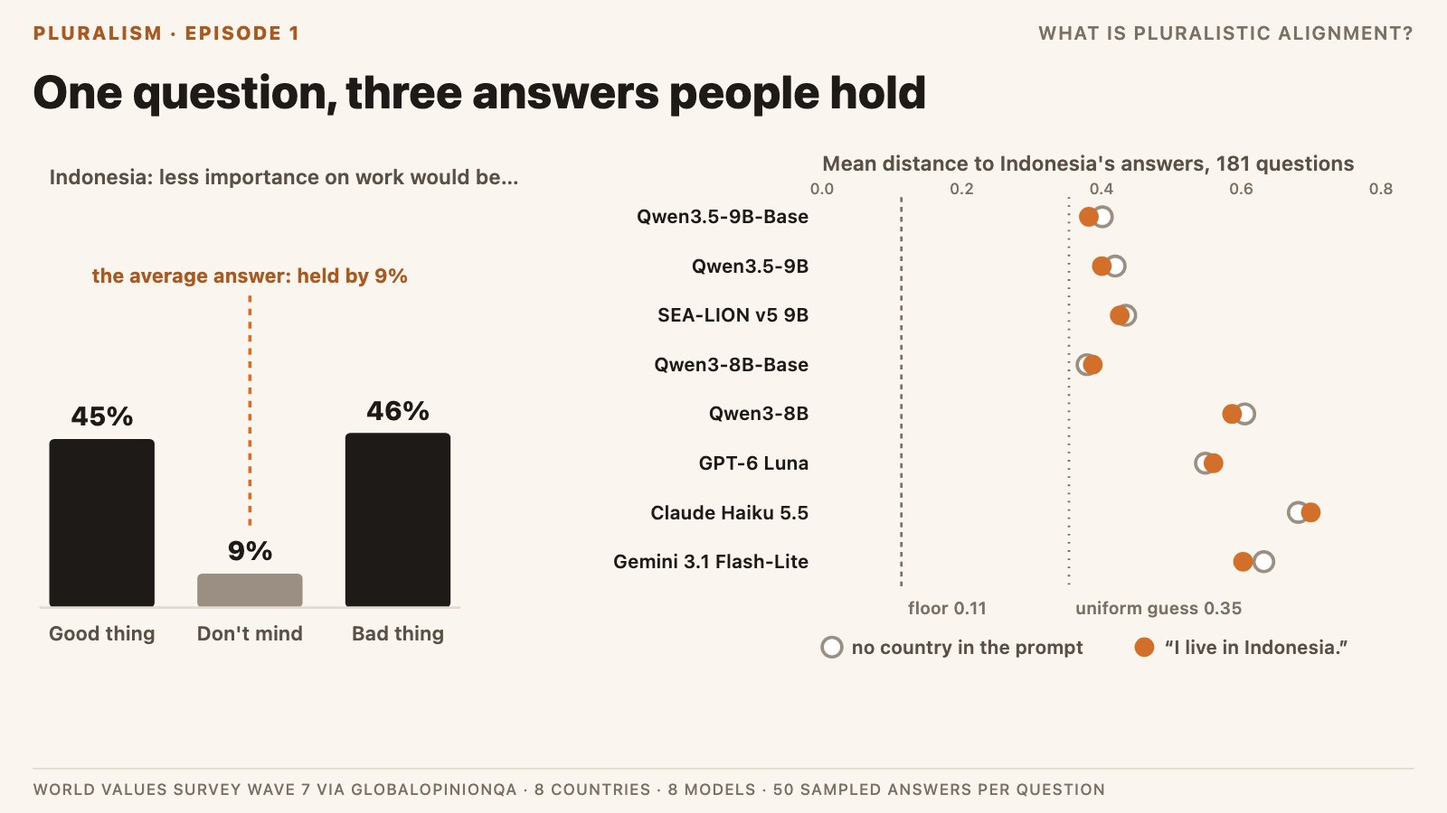
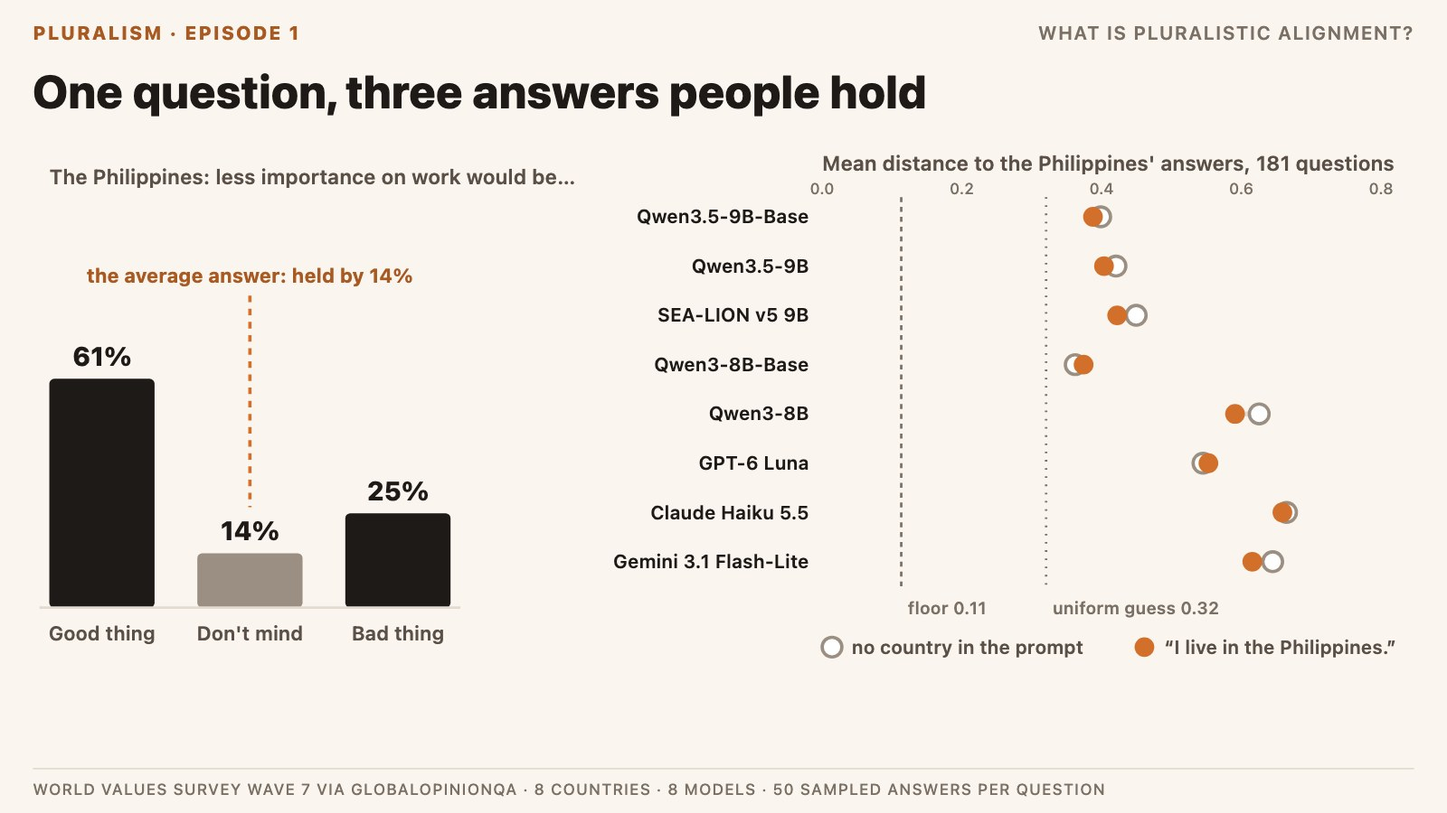
pluralism-explainer: Philippines cover; name papers, not people, in the prose

diff --git a/experiments/pluralism-explainer/report/index.html b/experiments/pluralism-explainer/report/index.html
@@ -15,13 +15,13 @@
 <meta property="og:image" content="https://albertlieyingadrian.github.io/steerlab/experiments/pluralism-explainer/report/figures/og.jpg">
 <meta property="og:image:width" content="1200">
 <meta property="og:image:height" content="630">
-<meta property="og:image:alt" content="Left: Indonesia&#x27;s survey split on whether less importance placed on work would be good (45%), don&#x27;t mind (9%) or bad (46%), with the average answer marked at the 9% bar. Right: eight models&#x27; mean distance to Indonesia&#x27;s answers, from 0.38 to 0.70, all to the right of a uniform guess at 0.35 and far from the 0.11 floor.">
+<meta property="og:image:alt" content="Left: the Philippines&#x27; survey split on whether less importance placed on work would be good (61%), don&#x27;t mind (14%) or bad (25%), with the average answer marked at the 14% bar. Right: eight models&#x27; mean distance to the Philippines&#x27; answers, from 0.36 to 0.66, against a uniform guess at 0.32 and the 0.11 floor.">
 <meta name="twitter:card" content="summary_large_image">
 <meta name="twitter:title" content="What is pluralistic alignment? Eight models against eight countries&#x27; survey answers">
 <meta name="twitter:description" content="Pluralism E1, an explainer of Overton, steerable and distributional pluralism with real survey answers, and a pre-registered measurement of eight 2026 models against eight countries on 181 World Values Survey questions: every model sits farther from people than a uniform guess (0.35 to 0.64 against 0.34), chat models answer far more narrowly than people, and &#x27;I live in &lt;country&gt;.&#x27; moves them by about 0.02 at most.">
 <meta name="twitter:image" content="https://albertlieyingadrian.github.io/steerlab/experiments/pluralism-explainer/report/figures/og.jpg">
 <meta property="article:published_time" content="2026-11-18">
-<meta property="article:modified_time" content="2026-11-18">
+<meta property="article:modified_time" content="2026-11-19">
 <meta property="article:author" content="Albert Lie">
 <script type="application/ld+json">
 {
@@ -56,7 +56,7 @@
   ]
  },
  "datePublished": "2026-11-18",
- "dateModified": "2026-11-18",
+ "dateModified": "2026-11-19",
  "inLanguage": "en",
  "isAccessibleForFree": true,
  "keywords": "pluralistic alignment, distributional pluralism, Overton pluralism, steerable pluralism, GlobalOpinionQA, World Values Survey, Jensen-Shannon distance, opinion diversity, post-training, SEA-LION, Qwen3.5, pre-registered",
@@ -156,22 +156,22 @@
 </nav>
 
 <article>
-  <p class="eyebrow"><a href="../../">← Research</a><span class="sep">·</span>Experiments<span class="sep">·</span><time datetime="2026-11-18">Nov 18, 2026</time></p>
+  <p class="eyebrow"><a href="../../">← Research</a><span class="sep">·</span>Experiments<span class="sep">·</span><time datetime="2026-11-18">Nov 18, 2026</time><span class="sep">·</span>Updated <time datetime="2026-11-19">Nov 19, 2026</time></p>
   <h1>What is pluralistic alignment? Eight models against eight countries' survey answers</h1>
   <p class="dek ruled">Pluralistic alignment asks how a model should answer when people disagree. This note walks through its three kinds with real survey answers, and measures eight 2026 models against eight countries on 181 World Values Survey questions: every model sits farther from people than a uniform guess, five of six chat models answer far more narrowly than people, and “I live in &lt;country&gt;.” barely moves them.</p>
 
   <figure class="hero whole">
     <!-- cover:start -->
-    <svg class="plu-cover" viewBox="0 0 880 495" width="880" height="495" role="img" aria-label="Left: Indonesia&#x27;s survey split on whether less importance placed on work would be good (45%), don&#x27;t mind (9%) or bad (46%); the average position falls on the answer 9% hold. Right: eight models&#x27; mean Jensen-Shannon distance to Indonesia&#x27;s answers over 181 questions, without and with &#x27;I live in Indonesia.&#x27;, against a sampling floor of 0.11 and a uniform guess." style="display:block;width:100%;height:auto" xmlns="http://www.w3.org/2000/svg"><rect x="0" y="0" width="880" height="495" rx="0" fill="#faf6ef" stroke="none" stroke-width="1"/><text x="20" y="24" fill="#a85a22" style="font-family:-apple-system,BlinkMacSystemFont,'Inter','Segoe UI',Helvetica,Arial,sans-serif;font-size:11.5px;font-weight:800" letter-spacing="0.09em">PLURALISM · EPISODE 1</text><text x="860" y="24" fill="#7a7065" style="font-family:-apple-system,BlinkMacSystemFont,'Inter','Segoe UI',Helvetica,Arial,sans-serif;font-size:11.5px;font-weight:600" text-anchor="end" letter-spacing="0.06em">WHAT IS PLURALISTIC ALIGNMENT?</text><text x="20" y="66" fill="#1d1a17" style="font-family:-apple-system,BlinkMacSystemFont,'Inter','Segoe UI',Helvetica,Arial,sans-serif;font-size:28px;font-weight:800">One question, three answers people hold</text><text x="30" y="112" fill="#5a5048" style="font-family:-apple-system,BlinkMacSystemFont,'Inter','Segoe UI',Helvetica,Arial,sans-serif;font-size:12.5px;font-weight:600">Indonesia: less importance on work would be…</text><rect x="30" y="267.236" width="64" height="102.764" rx="3" fill="#1d1a17" stroke="none" stroke-width="1"/><text x="62.0" y="259.236" fill="#1d1a17" style="font-family:-apple-system,BlinkMacSystemFont,'Inter','Segoe UI',Helvetica,Arial,sans-serif;font-size:16px;font-weight:800" text-anchor="middle">45%</text><text x="62.0" y="390" fill="#5a5048" style="font-family:-apple-system,BlinkMacSystemFont,'Inter','Segoe UI',Helvetica,Arial,sans-serif;font-size:12px;font-weight:600" text-anchor="middle">Good thing</text><rect x="120" y="349.208" width="64" height="20.791999999999998" rx="3" fill="#9a8f82" stroke="none" stroke-width="1"/><text x="152.0" y="341.208" fill="#1d1a17" style="font-family:-apple-system,BlinkMacSystemFont,'Inter','Segoe UI',Helvetica,Arial,sans-serif;font-size:16px;font-weight:800" text-anchor="middle">9%</text><text x="152.0" y="390" fill="#5a5048" style="font-family:-apple-system,BlinkMacSystemFont,'Inter','Segoe UI',Helvetica,Arial,sans-serif;font-size:12px;font-weight:600" text-anchor="middle">Don&#x27;t mind</text><rect x="210" y="263.533" width="64" height="106.467" rx="3" fill="#1d1a17" stroke="none" stroke-width="1"/><text x="242.0" y="255.53300000000002" fill="#1d1a17" style="font-family:-apple-system,BlinkMacSystemFont,'Inter','Segoe UI',Helvetica,Arial,sans-serif;font-size:16px;font-weight:800" text-anchor="middle">46%</text><text x="242.0" y="390" fill="#5a5048" style="font-family:-apple-system,BlinkMacSystemFont,'Inter','Segoe UI',Helvetica,Arial,sans-serif;font-size:12px;font-weight:600" text-anchor="middle">Bad thing</text><path d="M24,370 H280" stroke="#e3dbd0" stroke-width="1.5"/><path d="M152.0,180 V321.208" stroke="#d26f2a" stroke-width="2" stroke-dasharray="4 4"/><text x="152.0" y="172" fill="#a85a22" style="font-family:-apple-system,BlinkMacSystemFont,'Inter','Segoe UI',Helvetica,Arial,sans-serif;font-size:12px;font-weight:700" text-anchor="middle">the average answer: held by 9%</text><text x="500" y="104" fill="#5a5048" style="font-family:-apple-system,BlinkMacSystemFont,'Inter','Segoe UI',Helvetica,Arial,sans-serif;font-size:12.5px;font-weight:600">Mean distance to Indonesia&#x27;s answers, 181 questions</text><path d="M548.2,120 V360" stroke="#7a7065" stroke-width="1.5" stroke-dasharray="3 3"/><text x="552.2375" y="374" fill="#7a7065" style="font-family:-apple-system,BlinkMacSystemFont,'Inter','Segoe UI',Helvetica,Arial,sans-serif;font-size:10.5px;font-weight:600">floor 0.11</text><path d="M650.1,120 V360" stroke="#7a7065" stroke-width="1.5" stroke-dasharray="1 4"/><text x="654.11" y="374" fill="#7a7065" style="font-family:-apple-system,BlinkMacSystemFont,'Inter','Segoe UI',Helvetica,Arial,sans-serif;font-size:10.5px;font-weight:600">uniform guess 0.35</text><text x="500.0" y="118" fill="#7a7065" style="font-family:-apple-system,BlinkMacSystemFont,'Inter','Segoe UI',Helvetica,Arial,sans-serif;font-size:9.5px;font-weight:500" text-anchor="middle">0.0</text><text x="585.0" y="118" fill="#7a7065" style="font-family:-apple-system,BlinkMacSystemFont,'Inter','Segoe UI',Helvetica,Arial,sans-serif;font-size:9.5px;font-weight:500" text-anchor="middle">0.2</text><text x="670.0" y="118" fill="#7a7065" style="font-family:-apple-system,BlinkMacSystemFont,'Inter','Segoe UI',Helvetica,Arial,sans-serif;font-size:9.5px;font-weight:500" text-anchor="middle">0.4</text><text x="755.0" y="118" fill="#7a7065" style="font-family:-apple-system,BlinkMacSystemFont,'Inter','Segoe UI',Helvetica,Arial,sans-serif;font-size:9.5px;font-weight:500" text-anchor="middle">0.6</text><text x="840.0" y="118" fill="#7a7065" style="font-family:-apple-system,BlinkMacSystemFont,'Inter','Segoe UI',Helvetica,Arial,sans-serif;font-size:9.5px;font-weight:500" text-anchor="middle">0.8</text><text x="492" y="136" fill="#1d1a17" style="font-family:-apple-system,BlinkMacSystemFont,'Inter','Segoe UI',Helvetica,Arial,sans-serif;font-size:11.5px;font-weight:600" text-anchor="end">Qwen3.5-9B-Base</text><path d="M662.2,132 H670.4" stroke="#e3dbd0" stroke-width="3"/><circle cx="670.4" cy="132" r="6" fill="#fff" stroke="#9a8f82" stroke-width="2"/><circle cx="662.2" cy="132" r="6" fill="#d26f2a"/><text x="492" y="166" fill="#1d1a17" style="font-family:-apple-system,BlinkMacSystemFont,'Inter','Segoe UI',Helvetica,Arial,sans-serif;font-size:11.5px;font-weight:600" text-anchor="end">Qwen3.5-9B</text><path d="M670.1,162 H678.2" stroke="#e3dbd0" stroke-width="3"/><circle cx="678.2" cy="162" r="6" fill="#fff" stroke="#9a8f82" stroke-width="2"/><circle cx="670.1" cy="162" r="6" fill="#d26f2a"/><text x="492" y="196" fill="#1d1a17" style="font-family:-apple-system,BlinkMacSystemFont,'Inter','Segoe UI',Helvetica,Arial,sans-serif;font-size:11.5px;font-weight:600" text-anchor="end">SEA-LION v5 9B</text><path d="M681.0,192 H684.6" stroke="#e3dbd0" stroke-width="3"/><circle cx="684.6" cy="192" r="6" fill="#fff" stroke="#9a8f82" stroke-width="2"/><circle cx="681.0" cy="192" r="6" fill="#d26f2a"/><text x="492" y="226" fill="#1d1a17" style="font-family:-apple-system,BlinkMacSystemFont,'Inter','Segoe UI',Helvetica,Arial,sans-serif;font-size:11.5px;font-weight:600" text-anchor="end">Qwen3-8B-Base</text><path d="M661.1,222 H664.6" stroke="#e3dbd0" stroke-width="3"/><circle cx="661.1" cy="222" r="6" fill="#fff" stroke="#9a8f82" stroke-width="2"/><circle cx="664.6" cy="222" r="6" fill="#d26f2a"/><text x="492" y="256" fill="#1d1a17" style="font-family:-apple-system,BlinkMacSystemFont,'Inter','Segoe UI',Helvetica,Arial,sans-serif;font-size:11.5px;font-weight:600" text-anchor="end">Qwen3-8B</text><path d="M749.3,252 H757.0" stroke="#e3dbd0" stroke-width="3"/><circle cx="757.0" cy="252" r="6" fill="#fff" stroke="#9a8f82" stroke-width="2"/><circle cx="749.3" cy="252" r="6" fill="#d26f2a"/><text x="492" y="286" fill="#1d1a17" style="font-family:-apple-system,BlinkMacSystemFont,'Inter','Segoe UI',Helvetica,Arial,sans-serif;font-size:11.5px;font-weight:600" text-anchor="end">GPT-6 Luna</text><path d="M733.1,282 H738.0" stroke="#e3dbd0" stroke-width="3"/><circle cx="733.1" cy="282" r="6" fill="#fff" stroke="#9a8f82" stroke-width="2"/><circle cx="738.0" cy="282" r="6" fill="#d26f2a"/><text x="492" y="316" fill="#1d1a17" style="font-family:-apple-system,BlinkMacSystemFont,'Inter','Segoe UI',Helvetica,Arial,sans-serif;font-size:11.5px;font-weight:600" text-anchor="end">Claude Haiku 5.5</text><path d="M789.6,312 H797.2" stroke="#e3dbd0" stroke-width="3"/><circle cx="789.6" cy="312" r="6" fill="#fff" stroke="#9a8f82" stroke-width="2"/><circle cx="797.2" cy="312" r="6" fill="#d26f2a"/><text x="492" y="346" fill="#1d1a17" style="font-family:-apple-system,BlinkMacSystemFont,'Inter','Segoe UI',Helvetica,Arial,sans-serif;font-size:11.5px;font-weight:600" text-anchor="end">Gemini 3.1 Flash-Lite</text><path d="M756.0,342 H768.6" stroke="#e3dbd0" stroke-width="3"/><circle cx="768.6" cy="342" r="6" fill="#fff" stroke="#9a8f82" stroke-width="2"/><circle cx="756.0" cy="342" r="6" fill="#d26f2a"/><circle cx="506" cy="394" r="6" fill="#fff" stroke="#9a8f82" stroke-width="2"/><text x="518" y="398" fill="#5a5048" style="font-family:-apple-system,BlinkMacSystemFont,'Inter','Segoe UI',Helvetica,Arial,sans-serif;font-size:11.5px;font-weight:600">no country in the prompt</text><circle cx="696" cy="394" r="6" fill="#d26f2a"/><text x="708" y="398" fill="#5a5048" style="font-family:-apple-system,BlinkMacSystemFont,'Inter','Segoe UI',Helvetica,Arial,sans-serif;font-size:11.5px;font-weight:600">“I live in Indonesia.”</text><path d="M20,468 H860" stroke="#e3dbd0" stroke-width="1"/><text x="20" y="484" fill="#7a7065" style="font-family:-apple-system,BlinkMacSystemFont,'Inter','Segoe UI',Helvetica,Arial,sans-serif;font-size:9.5px;font-weight:500" letter-spacing="0.05em">WORLD VALUES SURVEY WAVE 7 VIA GLOBALOPINIONQA · 8 COUNTRIES · 8 MODELS · 50 SAMPLED ANSWERS PER QUESTION</text></svg>
+    <svg class="plu-cover" viewBox="0 0 880 495" width="880" height="495" role="img" aria-label="Left: the Philippines&#x27; survey split on whether less importance placed on work would be good (61%), don&#x27;t mind (14%) or bad (25%); the average position falls on &#x27;Don&#x27;t mind&#x27;, the answer 14% hold. Right: eight models&#x27; mean Jensen-Shannon distance to the Philippines&#x27; answers over 181 questions, without and with &#x27;I live in the Philippines.&#x27;, against a sampling floor of 0.11 and a uniform guess." style="display:block;width:100%;height:auto" xmlns="http://www.w3.org/2000/svg"><rect x="0" y="0" width="880" height="495" rx="0" fill="#faf6ef" stroke="none" stroke-width="1"/><text x="20" y="24" fill="#a85a22" style="font-family:-apple-system,BlinkMacSystemFont,'Inter','Segoe UI',Helvetica,Arial,sans-serif;font-size:11.5px;font-weight:800" letter-spacing="0.09em">PLURALISM · EPISODE 1</text><text x="860" y="24" fill="#7a7065" style="font-family:-apple-system,BlinkMacSystemFont,'Inter','Segoe UI',Helvetica,Arial,sans-serif;font-size:11.5px;font-weight:600" text-anchor="end" letter-spacing="0.06em">WHAT IS PLURALISTIC ALIGNMENT?</text><text x="20" y="66" fill="#1d1a17" style="font-family:-apple-system,BlinkMacSystemFont,'Inter','Segoe UI',Helvetica,Arial,sans-serif;font-size:28px;font-weight:800">One question, three answers people hold</text><text x="30" y="112" fill="#5a5048" style="font-family:-apple-system,BlinkMacSystemFont,'Inter','Segoe UI',Helvetica,Arial,sans-serif;font-size:12.5px;font-weight:600">The Philippines: less importance on work would be…</text><rect x="30" y="230.62" width="64" height="139.38" rx="3" fill="#1d1a17" stroke="none" stroke-width="1"/><text x="62.0" y="222.62" fill="#1d1a17" style="font-family:-apple-system,BlinkMacSystemFont,'Inter','Segoe UI',Helvetica,Arial,sans-serif;font-size:16px;font-weight:800" text-anchor="middle">61%</text><text x="62.0" y="390" fill="#5a5048" style="font-family:-apple-system,BlinkMacSystemFont,'Inter','Segoe UI',Helvetica,Arial,sans-serif;font-size:12px;font-weight:600" text-anchor="middle">Good thing</text><rect x="120" y="336.88" width="64" height="33.12" rx="3" fill="#9a8f82" stroke="none" stroke-width="1"/><text x="152.0" y="328.88" fill="#1d1a17" style="font-family:-apple-system,BlinkMacSystemFont,'Inter','Segoe UI',Helvetica,Arial,sans-serif;font-size:16px;font-weight:800" text-anchor="middle">14%</text><text x="152.0" y="390" fill="#5a5048" style="font-family:-apple-system,BlinkMacSystemFont,'Inter','Segoe UI',Helvetica,Arial,sans-serif;font-size:12px;font-weight:600" text-anchor="middle">Don&#x27;t mind</text><rect x="210" y="312.5" width="64" height="57.5" rx="3" fill="#1d1a17" stroke="none" stroke-width="1"/><text x="242.0" y="304.5" fill="#1d1a17" style="font-family:-apple-system,BlinkMacSystemFont,'Inter','Segoe UI',Helvetica,Arial,sans-serif;font-size:16px;font-weight:800" text-anchor="middle">25%</text><text x="242.0" y="390" fill="#5a5048" style="font-family:-apple-system,BlinkMacSystemFont,'Inter','Segoe UI',Helvetica,Arial,sans-serif;font-size:12px;font-weight:600" text-anchor="middle">Bad thing</text><path d="M24,370 H280" stroke="#e3dbd0" stroke-width="1.5"/><path d="M152.0,180 V308.88" stroke="#d26f2a" stroke-width="2" stroke-dasharray="4 4"/><text x="152.0" y="172" fill="#a85a22" style="font-family:-apple-system,BlinkMacSystemFont,'Inter','Segoe UI',Helvetica,Arial,sans-serif;font-size:12px;font-weight:700" text-anchor="middle">the average answer: held by 14%</text><text x="500" y="104" fill="#5a5048" style="font-family:-apple-system,BlinkMacSystemFont,'Inter','Segoe UI',Helvetica,Arial,sans-serif;font-size:12.5px;font-weight:600">Mean distance to the Philippines&#x27; answers, 181 questions</text><path d="M548.1,120 V360" stroke="#7a7065" stroke-width="1.5" stroke-dasharray="3 3"/><text x="552.11" y="374" fill="#7a7065" style="font-family:-apple-system,BlinkMacSystemFont,'Inter','Segoe UI',Helvetica,Arial,sans-serif;font-size:10.5px;font-weight:600">floor 0.11</text><path d="M636.2,120 V360" stroke="#7a7065" stroke-width="1.5" stroke-dasharray="1 4"/><text x="640.2125" y="374" fill="#7a7065" style="font-family:-apple-system,BlinkMacSystemFont,'Inter','Segoe UI',Helvetica,Arial,sans-serif;font-size:10.5px;font-weight:600">uniform guess 0.32</text><text x="500.0" y="118" fill="#7a7065" style="font-family:-apple-system,BlinkMacSystemFont,'Inter','Segoe UI',Helvetica,Arial,sans-serif;font-size:9.5px;font-weight:500" text-anchor="middle">0.0</text><text x="585.0" y="118" fill="#7a7065" style="font-family:-apple-system,BlinkMacSystemFont,'Inter','Segoe UI',Helvetica,Arial,sans-serif;font-size:9.5px;font-weight:500" text-anchor="middle">0.2</text><text x="670.0" y="118" fill="#7a7065" style="font-family:-apple-system,BlinkMacSystemFont,'Inter','Segoe UI',Helvetica,Arial,sans-serif;font-size:9.5px;font-weight:500" text-anchor="middle">0.4</text><text x="755.0" y="118" fill="#7a7065" style="font-family:-apple-system,BlinkMacSystemFont,'Inter','Segoe UI',Helvetica,Arial,sans-serif;font-size:9.5px;font-weight:500" text-anchor="middle">0.6</text><text x="840.0" y="118" fill="#7a7065" style="font-family:-apple-system,BlinkMacSystemFont,'Inter','Segoe UI',Helvetica,Arial,sans-serif;font-size:9.5px;font-weight:500" text-anchor="middle">0.8</text><text x="492" y="136" fill="#1d1a17" style="font-family:-apple-system,BlinkMacSystemFont,'Inter','Segoe UI',Helvetica,Arial,sans-serif;font-size:11.5px;font-weight:600" text-anchor="end">Qwen3.5-9B-Base</text><path d="M664.7,132 H669.4" stroke="#e3dbd0" stroke-width="3"/><circle cx="669.4" cy="132" r="6" fill="#fff" stroke="#9a8f82" stroke-width="2"/><circle cx="664.7" cy="132" r="6" fill="#d26f2a"/><text x="492" y="166" fill="#1d1a17" style="font-family:-apple-system,BlinkMacSystemFont,'Inter','Segoe UI',Helvetica,Arial,sans-serif;font-size:11.5px;font-weight:600" text-anchor="end">Qwen3.5-9B</text><path d="M671.4,162 H678.7" stroke="#e3dbd0" stroke-width="3"/><circle cx="678.7" cy="162" r="6" fill="#fff" stroke="#9a8f82" stroke-width="2"/><circle cx="671.4" cy="162" r="6" fill="#d26f2a"/><text x="492" y="196" fill="#1d1a17" style="font-family:-apple-system,BlinkMacSystemFont,'Inter','Segoe UI',Helvetica,Arial,sans-serif;font-size:11.5px;font-weight:600" text-anchor="end">SEA-LION v5 9B</text><path d="M679.4,192 H691.0" stroke="#e3dbd0" stroke-width="3"/><circle cx="691.0" cy="192" r="6" fill="#fff" stroke="#9a8f82" stroke-width="2"/><circle cx="679.4" cy="192" r="6" fill="#d26f2a"/><text x="492" y="226" fill="#1d1a17" style="font-family:-apple-system,BlinkMacSystemFont,'Inter','Segoe UI',Helvetica,Arial,sans-serif;font-size:11.5px;font-weight:600" text-anchor="end">Qwen3-8B-Base</text><path d="M653.9,222 H659.0" stroke="#e3dbd0" stroke-width="3"/><circle cx="653.9" cy="222" r="6" fill="#fff" stroke="#9a8f82" stroke-width="2"/><circle cx="659.0" cy="222" r="6" fill="#d26f2a"/><text x="492" y="256" fill="#1d1a17" style="font-family:-apple-system,BlinkMacSystemFont,'Inter','Segoe UI',Helvetica,Arial,sans-serif;font-size:11.5px;font-weight:600" text-anchor="end">Qwen3-8B</text><path d="M751.1,252 H765.8" stroke="#e3dbd0" stroke-width="3"/><circle cx="765.8" cy="252" r="6" fill="#fff" stroke="#9a8f82" stroke-width="2"/><circle cx="751.1" cy="252" r="6" fill="#d26f2a"/><text x="492" y="286" fill="#1d1a17" style="font-family:-apple-system,BlinkMacSystemFont,'Inter','Segoe UI',Helvetica,Arial,sans-serif;font-size:11.5px;font-weight:600" text-anchor="end">GPT-6 Luna</text><path d="M731.6,282 H734.9" stroke="#e3dbd0" stroke-width="3"/><circle cx="731.6" cy="282" r="6" fill="#fff" stroke="#9a8f82" stroke-width="2"/><circle cx="734.9" cy="282" r="6" fill="#d26f2a"/><text x="492" y="316" fill="#1d1a17" style="font-family:-apple-system,BlinkMacSystemFont,'Inter','Segoe UI',Helvetica,Arial,sans-serif;font-size:11.5px;font-weight:600" text-anchor="end">Claude Haiku 5.5</text><path d="M779.9,312 H782.4" stroke="#e3dbd0" stroke-width="3"/><circle cx="782.4" cy="312" r="6" fill="#fff" stroke="#9a8f82" stroke-width="2"/><circle cx="779.9" cy="312" r="6" fill="#d26f2a"/><text x="492" y="346" fill="#1d1a17" style="font-family:-apple-system,BlinkMacSystemFont,'Inter','Segoe UI',Helvetica,Arial,sans-serif;font-size:11.5px;font-weight:600" text-anchor="end">Gemini 3.1 Flash-Lite</text><path d="M761.6,342 H774.0" stroke="#e3dbd0" stroke-width="3"/><circle cx="774.0" cy="342" r="6" fill="#fff" stroke="#9a8f82" stroke-width="2"/><circle cx="761.6" cy="342" r="6" fill="#d26f2a"/><circle cx="506" cy="394" r="6" fill="#fff" stroke="#9a8f82" stroke-width="2"/><text x="518" y="398" fill="#5a5048" style="font-family:-apple-system,BlinkMacSystemFont,'Inter','Segoe UI',Helvetica,Arial,sans-serif;font-size:11.5px;font-weight:600">no country in the prompt</text><circle cx="696" cy="394" r="6" fill="#d26f2a"/><text x="708" y="398" fill="#5a5048" style="font-family:-apple-system,BlinkMacSystemFont,'Inter','Segoe UI',Helvetica,Arial,sans-serif;font-size:11.5px;font-weight:600">“I live in the Philippines.”</text><path d="M20,468 H860" stroke="#e3dbd0" stroke-width="1"/><text x="20" y="484" fill="#7a7065" style="font-family:-apple-system,BlinkMacSystemFont,'Inter','Segoe UI',Helvetica,Arial,sans-serif;font-size:9.5px;font-weight:500" letter-spacing="0.05em">WORLD VALUES SURVEY WAVE 7 VIA GLOBALOPINIONQA · 8 COUNTRIES · 8 MODELS · 50 SAMPLED ANSWERS PER QUESTION</text></svg>
     <!-- cover:end -->
-    <figcaption>Cover: left, Indonesia's answers to whether less importance placed on work would be good, don't mind or bad (World Values Survey Wave 7, “don’t know” removed); the average position falls on the answer 9% gave. Right, each model's mean Jensen-Shannon distance to Indonesia over 181 questions, with no country (hollow) and with “I live in Indonesia.” (filled), against the 0.11 floor of a perfect 50-answer sampler. Drawn by make_cover.py from report/data.json.</figcaption>
+    <figcaption>Cover: left, the Philippines' answers to whether less importance placed on work would be good, don't mind or bad (World Values Survey Wave 7, “don’t know” removed): 61% / 14% / 25%; the average position falls on “don't mind”, the answer 14% gave. Right, each model's mean Jensen-Shannon distance to the Philippines over 181 questions, with no country (hollow) and with “I live in the Philippines.” (filled), against the 0.11 floor of a perfect 50-answer sampler and a uniform guess (0.32). Drawn by make_cover.py from report/data.json.</figcaption>
   </figure>
 
   <dl class="meta">
     <div><dt>Author</dt><dd>Albert Lie · <a href="https://github.com/albertlieyingadrian" rel="author">GitHub</a> · <a href="https://www.linkedin.com/in/leeyingde/" rel="author me">LinkedIn</a></dd></div>
     <div><dt>Series</dt><dd>Pluralism, Episode 1</dd></div>
     <div><dt>Models</dt><dd>Qwen3.5-9B-Base, Qwen3.5-9B, Qwen-SEA-LION-v5-9B, Qwen3-8B-Base, Qwen3-8B (open weights, on Modal); GPT-6 Luna, Claude Haiku 5.5, Gemini 3.1 Flash-Lite (the providers' low-cost tiers, through OpenRouter)</dd></div>
-    <div><dt>Data</dt><dd>World Values Survey Wave 7 splits for the US, the Philippines, Singapore, Malaysia, Indonesia, Taiwan, Brazil and South Korea, from GlobalOpinionQA (<a href="https://arxiv.org/abs/2306.16388">Durmus et al. 2023</a>); 181 questions</dd></div>
+    <div><dt>Data</dt><dd>World Values Survey Wave 7 splits for the US, the Philippines, Singapore, Malaysia, Indonesia, Taiwan, Brazil and South Korea, from GlobalOpinionQA (<a href="https://arxiv.org/abs/2306.16388">the dataset paper, 2023</a>); 181 questions</dd></div>
     <div><dt>Results</dt><dd><a href="../results/summary.json">results/</a> (every reply; <code>summary.json</code> holds every number) · <a href="../PLAN.md">plan and predictions</a> · <a href="https://github.com/albertlieyingadrian/steerlab/tree/main/experiments/pluralism-explainer">code</a></dd></div>
   </dl>
 
@@ -180,7 +180,7 @@
     <section class="key answer" aria-labelledby="in-short">
     <p class="summary-label" id="in-short">In short</p>
     <p><strong>What is pluralistic alignment, and where do 2026 models sit?</strong></p>
-    <p>Pluralistic alignment is the study of how a model should answer when people disagree. Choi's group names three kinds: <em>Overton</em> (lay out the reasonable answers), <em>steerable</em> (take a perspective when asked) and <em>distributional</em> (answer in a population's proportions). Asked 181 World Values Survey questions 50 times each, eight 2026 models sit 0.35 to 0.64 (Jensen-Shannon distance) from the answers of eight countries' people, where a perfect sampler scores 0.11 and a uniform guess 0.34; none beats the uniform guess for any country. Five of six chat models answer far more narrowly than people, “I live in &lt;country&gt;.” moves them by about 0.02 at most, and two API models decline about half the questions.</p>
+    <p>Pluralistic alignment is the study of how a model should answer when people disagree. <a href="https://arxiv.org/abs/2402.05070">A Roadmap to Pluralistic Alignment</a> (ICML 2024) names three kinds: <em>Overton</em> (lay out the reasonable answers), <em>steerable</em> (take a perspective when asked) and <em>distributional</em> (answer in a population's proportions). Asked 181 World Values Survey questions 50 times each, eight 2026 models sit 0.35 to 0.64 (Jensen-Shannon distance) from the answers of eight countries' people, where a perfect sampler scores 0.11 and a uniform guess 0.34; none beats the uniform guess for any country. Five of six chat models answer far more narrowly than people, “I live in &lt;country&gt;.” moves them by about 0.02 at most, and two API models decline about half the questions.</p>
     </section>
 
     <section aria-labelledby="key-results">
@@ -205,7 +205,7 @@
   <p>Ask a friend this, and then ask a second friend:</p>
   <p class="dilemma">“Your team lead asks you to come in this weekend to finish a project. You already have personal plans. How would you respond?”</p>
   <p>The two answers will probably differ, and neither friend is wrong. One goes in and asks for a day off later. One keeps the plans and offers a few hours from home. One says no and explains why. Which answer you give depends on what you value: loyalty to the team, a promise to your family, a rule that work stays at work. Now ask a language model. It gives one answer, often the same one every time, to millions of people at once. Pluralistic alignment is the research that asks what a model should do with a question like this, where people disagree and are entitled to.</p>
-  <p><strong>What is known.</strong> Yejin Choi's group has built the area in a line of papers: values conflict and models tend to average them away (<a href="https://arxiv.org/abs/2309.00779">Value Kaleidoscope</a>); there are three distinct things “pluralistic” can mean (<a href="https://arxiv.org/abs/2402.05070">A Roadmap to Pluralistic Alignment</a>); one large model can be paired with small community models to cover groups it misses (<a href="https://arxiv.org/abs/2406.15951">Modular Pluralism</a>); models repeat themselves and each other on open questions (<a href="https://arxiv.org/abs/2510.22954">Artificial Hivemind</a>); and ordinary post-training makes models harder to steer and narrower in what they say (<a href="https://arxiv.org/abs/2510.06084">Spectrum Tuning</a>).</p>
+  <p><strong>What is known.</strong> A line of papers has built the area: values conflict and models tend to average them away (<a href="https://arxiv.org/abs/2309.00779">Value Kaleidoscope</a>); there are three distinct things “pluralistic” can mean (<a href="https://arxiv.org/abs/2402.05070">A Roadmap to Pluralistic Alignment</a>); one large model can be paired with small community models to cover groups it misses (<a href="https://arxiv.org/abs/2406.15951">Modular Pluralism</a>); models repeat themselves and each other on open questions (<a href="https://arxiv.org/abs/2510.22954">Artificial Hivemind</a>); and ordinary post-training makes models harder to steer and narrower in what they say (<a href="https://arxiv.org/abs/2510.06084">Spectrum Tuning</a>).</p>
   <p><strong>What is missing.</strong> The definitions are easy to state and hard to picture. Most explainers use invented examples, and the measurements in the papers use models from 2023-2025 and countries chosen for other questions.</p>
   <p class="question-callout">What do Overton, steerable and distributional pluralism look like with real survey answers, and where do 2026 models sit against them?</p>
   <p><strong>What this note does.</strong> It follows the papers in the Roadmap's order and takes no side on which kind of pluralism a model should have. Every figure is backed by one experiment: eight models answer 181 World Values Survey questions 50 times each, with and without “I live in &lt;country&gt;.”, and their answers are compared with how people in eight countries actually answered. It contributes:</p>
@@ -379,12 +379,12 @@
   <p><strong>Post-mortem.</strong> What surprised me: no model beat a uniform guess for any country, and the regional model moved away from its region. What I would change: pre-register the comparison with a uniform guess as a test, since it turned out to be the clearest result, and add a native-language condition for the regional model. Lesson for the design guide: when the measure is a distance to a distribution, put the uniform answerer beside the floor in the plan, read out like the model.</p>
 
   <h2 id="plural-models" data-short="Plural values, plural models"><span class="num">06</span>Plural values, plural models</h2>
-  <p><strong>Two terms, two ideas.</strong> “Pluralism” in this series means Choi's research line. A different idea goes by a similar name in industry, and the two are easy to blur:</p>
+  <p><strong>Two terms, two ideas.</strong> “Pluralism” in this series means the research line of the papers above, starting with the Roadmap paper. A different idea goes by a similar name in industry, and the two are easy to blur:</p>
   <div class="table-wrap">
   <table>
     <thead><tr><th></th><th>Pluralistic alignment</th><th>Plural intelligence</th></tr></thead>
     <tbody>
-      <tr><td>Whose term</td><td>Choi's group (Roadmap, 2024)</td><td>Noeri (<a href="https://noeri.ai">noeri.ai</a>: “The plural of intelligence”)</td></tr>
+      <tr><td>Where the term comes from</td><td>A Roadmap to Pluralistic Alignment (ICML 2024)</td><td>Noeri (<a href="https://noeri.ai">noeri.ai</a>: “The plural of intelligence”)</td></tr>
       <tr><td>What is plural</td><td>the answers and values inside one model</td><td>the models: many specialised AIs, each built by a company “from its own data and know-how”</td></tr>
       <tr><td>The failure it fights</td><td>one answer standing in for everyone</td><td>one general model standing in for every company's work</td></tr>
     </tbody>

diff --git a/experiments/pluralism-explainer/make_cover.py b/experiments/pluralism-explainer/make_cover.py
@@ -1,10 +1,10 @@
-"""Draw the cover from the data: Indonesia's two hills on one question, and where eight models sit from Indonesia.
+"""Draw the cover from the data: the Philippines' split on one question, and where eight models sit from the Philippines.
 
     python experiments/pluralism-explainer/make_cover.py
 
-Left: Indonesia's survey split on "less importance placed on work" (GlobalOpinionQA goqa-2474), with the average
-position marked. Right: each model's mean JS distance to Indonesia over the 181 questions, with no country in the
-prompt (hollow) and with "I live in Indonesia." (filled), against the floor a perfect sampler of Indonesia would
+Left: the Philippines' survey split on "less importance placed on work" (GlobalOpinionQA goqa-2474), with the average
+position marked. Right: each model's mean JS distance to the Philippines over the 181 questions, with no country in the
+prompt (hollow) and with "I live in the Philippines." (filled), against the floor a perfect sampler of the country would
 score with 50 answers. From report/data.json. Writes the SVG into report/index.html between the cover markers,
 report/figures/hero.jpg and ../shared/thumbs/pluralism-explainer.jpg.
 """
@@ -35,29 +35,31 @@ from cover_kit import (
 )
 
 GREY = "#9a8f82"
+COUNTRY = "Philippines"  # the cover country; the note's Figure 1 opens on Indonesia
 
 
 def cover_svg(data):
     q = next(x for x in data["questions"] if x["id"] == "goqa-2474")
-    h = q["human"]["Indonesia"]
+    h = q["human"][COUNTRY]
+    k = round(sum(i * p for i, p in enumerate(h)))  # the option the average position falls on
     S = data["summary"]
     b = [kicker("PLURALISM · EPISODE 1", "WHAT IS PLURALISTIC ALIGNMENT?")]
     b.append(headline("One question, three answers people hold", None, 66, 28))
     # left: the split
     x0, y0, bw, bh = 30, 140, 64, 230
-    b.append(t(x0, 112, "Indonesia: less importance on work would be…", 12.5, 600, INK2))
+    b.append(t(x0, 112, "The Philippines: less importance on work would be…", 12.5, 600, INK2))
     for i, (o, p) in enumerate(zip(q["options"], h, strict=True)):
         x = x0 + i * (bw + 26)
         hh = bh * p
-        b.append(rect(x, y0 + bh - hh, bw, hh, INK if i != 1 else GREY, rx=3))
+        b.append(rect(x, y0 + bh - hh, bw, hh, INK if i != k else GREY, rx=3))
         b.append(t(x + bw / 2, y0 + bh - hh - 8, f"{p:.0%}", 16, 800, INK, "middle"))
         b.append(t(x + bw / 2, y0 + bh + 20, o, 12, 600, INK2, "middle"))
     b.append(f'<path d="M{x0 - 6},{y0 + bh} H{x0 + 3 * bw + 58}" stroke="{LINE}" stroke-width="1.5"/>')
-    mid = x0 + bw + 26 + bw / 2
+    mid = x0 + k * (bw + 26) + bw / 2
     b.append(
-        f'<path d="M{mid},{y0 + 40} V{y0 + bh - bh * h[1] - 28}" stroke="{EMBER}" stroke-width="2" stroke-dasharray="4 4"/>'
+        f'<path d="M{mid},{y0 + 40} V{y0 + bh - bh * h[k] - 28}" stroke="{EMBER}" stroke-width="2" stroke-dasharray="4 4"/>'
     )
-    b.append(t(mid, y0 + 32, f"the average answer: held by {h[1]:.0%}", 12, 700, EMBER_D, "middle"))
+    b.append(t(mid, y0 + 32, f"the average answer: held by {h[k]:.0%}", 12, 700, EMBER_D, "middle"))
     # right: distance dots
     rx, ry, rw = 500, 120, 340
     lo, hi = 0.0, 0.8
@@ -65,15 +67,15 @@ def cover_svg(data):
     def X(v):
         return rx + (v - lo) / (hi - lo) * rw
 
-    b.append(t(rx, 104, "Mean distance to Indonesia's answers, 181 questions", 12.5, 600, INK2))
-    fl = S["human"]["Indonesia"]["floor"]["mean"]
+    b.append(t(rx, 104, "Mean distance to the Philippines' answers, 181 questions", 12.5, 600, INK2))
+    fl = S["human"][COUNTRY]["floor"]["mean"]
     rows = data["models"]
     rh = 30
     b.append(
         f'<path d="M{X(fl):.1f},{ry} V{ry + len(rows) * rh}" stroke="{MUTED}" stroke-width="1.5" stroke-dasharray="3 3"/>'
     )
     b.append(t(X(fl) + 4, ry + len(rows) * rh + 14, f"floor {fl:.2f}", 10.5, 600, MUTED))
-    un = S["human"]["Indonesia"]["uniform_sampled"]["mean"]
+    un = S["human"][COUNTRY]["uniform_sampled"]["mean"]
     b.append(
         f'<path d="M{X(un):.1f},{ry} V{ry + len(rows) * rh}" stroke="{MUTED}" stroke-width="1.5" stroke-dasharray="1 4"/>'
     )
@@ -83,7 +85,7 @@ def cover_svg(data):
     for r, m in enumerate(rows):
         y = ry + 12 + r * rh
         P = S["per_model"][m["key"]]["jsd"]
-        d, s = P["default"]["Indonesia"]["mean"], P["Indonesia"]["Indonesia"]["mean"]
+        d, s = P["default"][COUNTRY]["mean"], P[COUNTRY][COUNTRY]["mean"]
         b.append(t(rx - 8, y + 4, m["label"], 11.5, 600, INK, "end"))
         b.append(f'<path d="M{X(min(d, s)):.1f},{y} H{X(max(d, s)):.1f}" stroke="{LINE}" stroke-width="3"/>')
         b.append(f'<circle cx="{X(d):.1f}" cy="{y}" r="6" fill="#fff" stroke="{GREY}" stroke-width="2"/>')
@@ -92,17 +94,20 @@ def cover_svg(data):
     b.append(f'<circle cx="{rx + 6}" cy="{yl}" r="6" fill="#fff" stroke="{GREY}" stroke-width="2"/>')
     b.append(t(rx + 18, yl + 4, "no country in the prompt", 11.5, 600, INK2))
     b.append(f'<circle cx="{rx + 196}" cy="{yl}" r="6" fill="{EMBER}"/>')
-    b.append(t(rx + 208, yl + 4, "“I live in Indonesia.”", 11.5, 600, INK2))
+    b.append(t(rx + 208, yl + 4, "“I live in the Philippines.”", 11.5, 600, INK2))
     b.append(f'<path d="M20,468 H860" stroke="{LINE}" stroke-width="1"/>')
     b.append(
         caps(
             "WORLD VALUES SURVEY WAVE 7 VIA GLOBALOPINIONQA · 8 COUNTRIES · 8 MODELS · 50 SAMPLED ANSWERS PER QUESTION"
         )
     )
-    label = (f"Left: Indonesia's survey split on whether less importance placed on work would be good ({h[0]:.0%}), "
-             f"don't mind ({h[1]:.0%}) or bad ({h[2]:.0%}); the average position falls on the answer 9% hold. "
-             "Right: eight models' mean Jensen-Shannon distance to Indonesia's answers over 181 questions, without "
-             f"and with 'I live in Indonesia.', against a sampling floor of {fl:.2f} and a uniform guess.")  # fmt: skip
+    label = (
+        f"Left: the Philippines' survey split on whether less importance placed on work would be good ({h[0]:.0%}), "
+        f"don't mind ({h[1]:.0%}) or bad ({h[2]:.0%}); the average position falls on '{q['options'][k]}', the answer "
+        f"{h[k]:.0%} hold. Right: eight models' mean Jensen-Shannon distance to the Philippines' answers over 181 "
+        f"questions, without and with 'I live in the Philippines.', against a sampling floor of {fl:.2f} and a "
+        "uniform guess."
+    )
     return svg("".join(b), label, "plu-cover")
 
 

diff --git a/experiments/pluralism-explainer/README.md b/experiments/pluralism-explainer/README.md
@@ -1,11 +1,11 @@
 # What is pluralistic alignment? Eight models against eight countries' survey answers
 
-Pluralism series, Episode 1. An explainer of Overton, steerable and distributional pluralism, following Yejin Choi's
-group's papers (Value Kaleidoscope, A Roadmap to Pluralistic Alignment, Modular Pluralism, Artificial Hivemind,
+Pluralism series, Episode 1. An explainer of Overton, steerable and distributional pluralism, following the papers
+(Value Kaleidoscope, A Roadmap to Pluralistic Alignment, Modular Pluralism, Artificial Hivemind,
 Spectrum Tuning), backed by one experiment. Note: [`report/index.html`](report/index.html).
 
 **The experiment.** 181 World Values Survey (Wave 7) questions from GlobalOpinionQA
-([`Anthropic/llm_global_opinions`](https://huggingface.co/datasets/Anthropic/llm_global_opinions), Durmus et al.
+([`Anthropic/llm_global_opinions`](https://huggingface.co/datasets/Anthropic/llm_global_opinions),
 2023) that have a split for all eight countries (US, Philippines, Singapore, Malaysia, Indonesia, Taiwan, Brazil, South
 Korea), after a comparability filter. Eight models answer each question 50 times at temperature 1, with no country in
 the prompt and with "I live in <country>." for each country: Qwen3.5-9B-Base, Qwen3.5-9B, Qwen-SEA-LION-v5-9B,

diff --git a/experiments/pluralism-explainer/PLAN.md b/experiments/pluralism-explainer/PLAN.md
@@ -14,7 +14,7 @@ where eight models' answers sit against eight countries' survey splits.
 
 ## What the note is
 
-An explainer that follows Yejin Choi's papers in the Roadmap's order (Value Kaleidoscope → Roadmap's three kinds →
+An explainer that follows the pluralistic alignment papers in the Roadmap's order (Value Kaleidoscope → Roadmap's three kinds →
 how to measure → Hivemind and Spectrum warnings → approaches), arguing no position of its own (settled). Examples:
 
 | Kind | Example | Data |
@@ -36,7 +36,7 @@ self-described line each, verified at the source, no funding, no parameter count
 
 - **Questions:** GlobalOpinionQA (`Anthropic/llm_global_opinions`) WVS items with a split for all eight countries:
   207. Comparability (`build_questions.py`, fixed before any model run):
-  - Wave: Durmus et al. use WVS Wave 7 ("WVS Wave 7, 353 questions"; country-pooled datafile v5.0.0); all eight
+  - Wave: The GlobalOpinionQA paper uses WVS Wave 7 ("WVS Wave 7, 353 questions"; country-pooled datafile v5.0.0); all eight
     countries are in Wave 7 (fieldwork 2017-2020), so one wave, one master questionnaire.
   - Non-substantive codes removed (Don't know, No answer, Missing, Other missing, INAP, spontaneous, Hard to say);
     splits renormalised.
